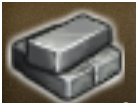
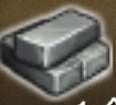
modified:   "images/\347\264\240\346\235\220/\345\205\275\345\223\201/0.png" 	modified:   "images/\347\264\240\346\235\220/\350\215\257\345\223\201/2.png" 	new file:   "images/\347\264\240\346\235\220/\350\215\257\345\223\201/3.png" 	modified:   "images/\347\264\240\346\235\220/\351\207\221\345\261\

diff --git a/test/test.js b/test/test.js
@@ -1,8 +1,6 @@
 auto();
 const U = require("/storage/emulated/0/脚本/scrpit/utils/utils.js");
 const P = require("/storage/emulated/0/脚本/scrpit/constant/坐标.js");
-let img = captureScreen();
-const template = "/storage/emulated/0/脚本/scrpit/images/商店.png"
+const template = "/storage/emulated/0/脚本/scrpit/images/素材/金属/image.png"
 let matchResult = U.findimg( template, { threshold: 0.80, max: 100 });
 console.log(matchResult);
-img.recyle;
